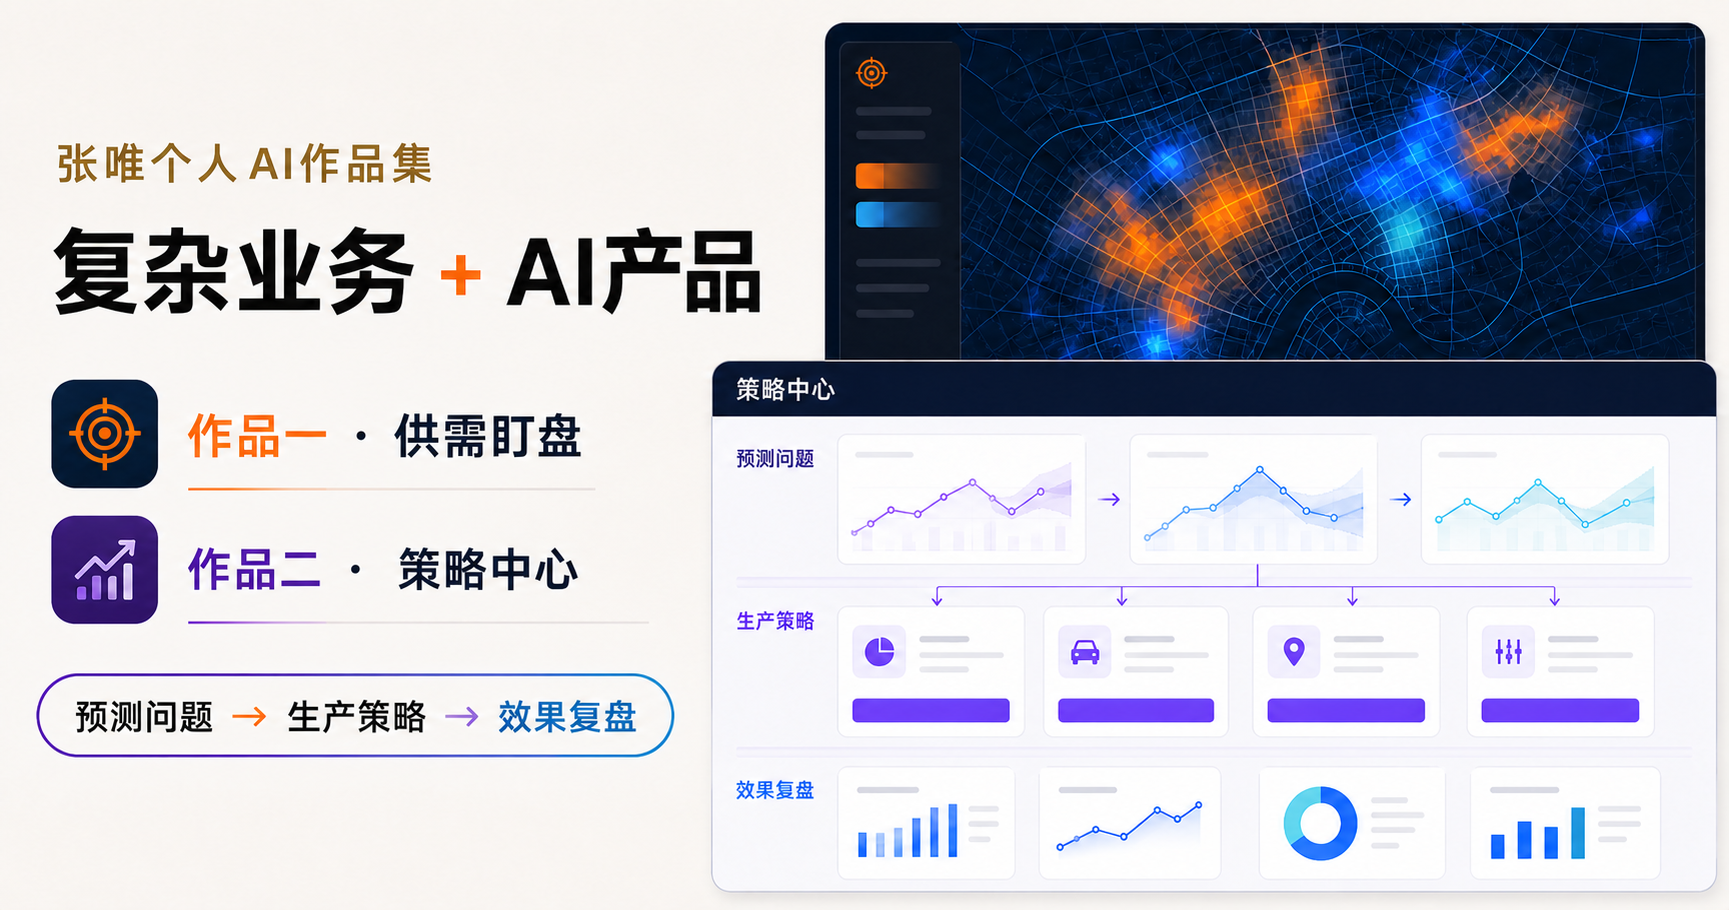
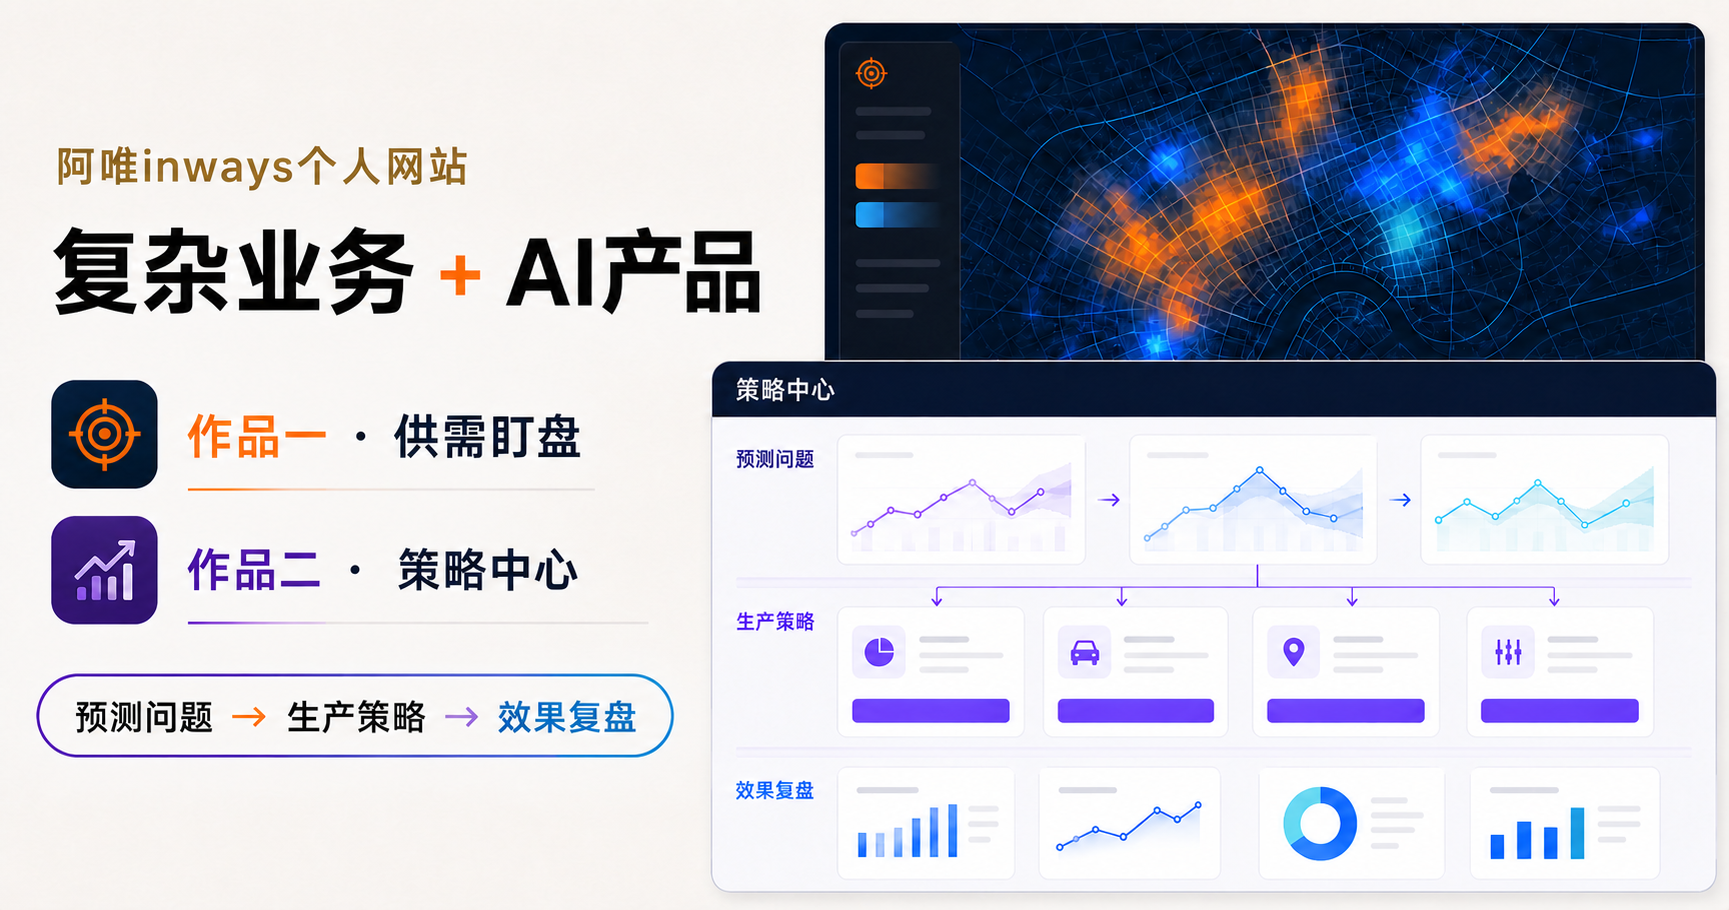
feat: rebrand portfolio as Awei inways personal site

diff --git a/ai-portfolio-cloudflare/app/page.tsx b/ai-portfolio-cloudflare/app/page.tsx
@@ -1,6 +1,7 @@
 "use client";
 
 import { useEffect, useMemo, useState } from "react";
+import Link from "next/link";
 
 const strategyText =
   "8月8日至10日，为海川市机场和大学城的周末兼职服务者配置晚高峰保障策略，18:00–22:00完成3单奖励15元、完成5单再奖励20元，单日预算5万元。";
@@ -46,9 +47,9 @@ type MonitorStep = "idle" | "rain" | "detected" | "dispatch" | "sent";
 
 function BrandMark() {
   return (
-    <div className="brand-mark" aria-label="张唯个人AI作品集">
+    <div className="brand-mark" aria-label="阿唯inways个人网站">
       <span className="brand-symbol"><i /><i /></span>
-      <span>张唯个人AI作品集</span>
+      <span>阿唯inways个人网站</span>
     </div>
   );
 }
@@ -68,12 +69,12 @@ function DemoDataNotice() {
 function SiteHeader({ active }: { active: "home" | "supply" | "strategy" | "about" }) {
   return (
     <header className="site-header">
-      <a href="/" aria-label="返回首页"><BrandMark /></a>
+      <Link href="/" aria-label="返回首页"><BrandMark /></Link>
       <nav>
-        <a className={active === "home" ? "active" : ""} href="/">首页</a>
+        <Link className={active === "home" ? "active" : ""} href="/">首页</Link>
         <a className={active === "supply" ? "active" : ""} href="/supply">作品一 · 供需盯盘</a>
         <a className={active === "strategy" ? "active" : ""} href="/strategy">作品二 · 策略中心</a>
-        <a className={active === "about" ? "active" : ""} href="/about">关于作品集</a>
+        <a className={active === "about" ? "active" : ""} href="/about">关于网站</a>
       </nav>
       <a className="header-cta" href={active === "strategy" ? "/supply" : "/strategy"}>体验产品Demo <ArrowIcon /></a>
     </header>
@@ -163,16 +164,22 @@ function SupplyDemo() {
   const selectedGap = scenarioData.gaps[selected as keyof typeof scenarioData.gaps];
 
   useEffect(() => {
-    setSelected(scenarioConfigs[scenario].firstTarget);
-    setDrawerOpen(false);
-    setStep("rain");
     const timer = window.setTimeout(() => setStep("detected"), 1100);
     return () => window.clearTimeout(timer);
   }, [scenario, scanVersion]);
 
   const reset = () => {
+    setSelected(scenarioConfigs[scenario].firstTarget);
     setDrawerOpen(false);
+    setStep("rain");
     setScanVersion((value) => value + 1);
+  };
+
+  const selectScenario = (nextScenario: Scenario) => {
+    setScenario(nextScenario);
+    setSelected(scenarioConfigs[nextScenario].firstTarget);
+    setDrawerOpen(false);
+    setStep("rain");
   };
 
   return (
@@ -194,9 +201,9 @@ function SupplyDemo() {
           <div className="metric"><small>风险区域</small><strong>{Object.keys(scenarioData.gaps).length}</strong><em>需干预</em></div>
           <div className="scenario-picker">
             <small>模拟场景</small>
-            <button className={scenario === "normal" ? "active" : ""} onClick={() => setScenario("normal")}>工作日早峰</button>
-            <button className={scenario === "rain" ? "active" : ""} onClick={() => setScenario("rain")}>突发强降雨</button>
-            <button className={scenario === "holiday" ? "active" : ""} onClick={() => setScenario("holiday")}>节假日客流</button>
+            <button className={scenario === "normal" ? "active" : ""} onClick={() => selectScenario("normal")}>工作日早峰</button>
+            <button className={scenario === "rain" ? "active" : ""} onClick={() => selectScenario("rain")}>突发强降雨</button>
+            <button className={scenario === "holiday" ? "active" : ""} onClick={() => selectScenario("holiday")}>节假日客流</button>
           </div>
           <div className="monitor-card">
             <span className="monitor-icon">◎</span>
@@ -434,7 +441,7 @@ function HomePreview() {
 }
 
 function Footer() {
-  return <footer><BrandMark /><p>AI产品运营 · AI产品经理 · AI解决方案</p><span>Portfolio demo · 2026</span></footer>;
+  return <footer><BrandMark /><p>AI产品实践 · 数字创作 · 持续探索</p><span>Personal site · 2026</span></footer>;
 }
 
 export function HomePage() {
@@ -444,9 +451,9 @@ export function HomePage() {
 
       <section className="hero">
         <div className="hero-copy">
-          <div className="eyebrow orange-text">AI PRODUCT PRACTICE · 2026</div>
-          <h1 className="hero-statement"><span className="hero-key business-key">复杂业务</span><i>+</i><span className="hero-key ai-key">AI产品</span><small>把六年运营经验，炼成可执行的产品能力。</small></h1>
-          <p>6年出行平台运营专家｜AI产品实践者<br />目标方向：AI产品运营 · AI产品经理 · AI解决方案</p>
+          <div className="eyebrow orange-text">INWAYS · PERSONAL SITE · 2026</div>
+          <h1 className="hero-statement"><span className="hero-key business-key">复杂业务</span><i>+</i><span className="hero-key ai-key">AI产品</span><small>把复杂问题，做成可以体验的产品。</small></h1>
+          <p>记录AI产品实践、业务思考与持续探索。<br />这里展示正在生长的作品与方法。</p>
           <div className="hero-actions"><a className="primary-cta" href="/supply">体验作品一 <ArrowIcon /></a><a className="secondary-cta" href="/strategy">体验作品二</a></div>
         </div>
         <div className="hero-product">
@@ -471,7 +478,7 @@ export function HomePage() {
         </div>
       </section>
 
-      <section className="about-teaser"><div><span className="eyebrow">ABOUT THIS PORTFOLIO</span><h2>真实问题，虚拟数据，<br />完整呈现产品思考。</h2></div><a href="/about">了解项目方法与脱敏说明 <ArrowIcon /></a></section>
+      <section className="about-teaser"><div><span className="eyebrow">ABOUT THIS SITE</span><h2>真实问题，虚拟数据，<br />记录每一次产品实践。</h2></div><a href="/about">了解网站与项目说明 <ArrowIcon /></a></section>
       <Footer />
     </main>
   );
@@ -486,7 +493,7 @@ export function StrategyPage() {
 }
 
 export function AboutPage() {
-  return <main><SiteHeader active="about" /><section className="about-page"><div className="about-page-heading"><span className="eyebrow orange-text">ABOUT THIS PORTFOLIO</span><h1>真实问题，虚拟数据，<br /><em>完整呈现产品思考。</em></h1><p>这是张唯用于求职展示的个人AI作品集，重点呈现复杂出行业务如何被重新拆解为可执行、可校验、可复用的AI产品。</p></div><div className="capability-grid">{capabilityCards.map(([no, title, desc]) => <article key={no}><span>{no}</span><h3>{title}</h3><p>{desc}</p></article>)}</div><div className="timeline-card"><div><span>Skill原型</span><small>验证单点价值</small></div><i>→</i><div><span>用户反馈</span><small>识别复用障碍</small></div><i>→</i><div><span>App产品化</span><small>配置与自动运行</small></div><i>→</i><div><span>全链路协同</span><small>生成、质检与决策</small></div></div><section className="privacy-note"><div><h2>关于职责与脱敏</h2><p>两个项目均由本人完成业务诊断、产品方案、规则抽象、Demo开发和迭代推广。作品集公开姓名，不展示手机号、邮箱、头像及当前公司信息。</p></div><div><h2>演示数据说明</h2><p>项目源于出行运营场景的真实实践抽象重构，不包含内部系统页面、接口和真实经营数据。“海川市”、人员、人群、策略、预算及地图均为虚构内容。</p></div></section></section><Footer /></main>;
+  return <main><SiteHeader active="about" /><section className="about-page"><div className="about-page-heading"><span className="eyebrow orange-text">ABOUT THIS SITE</span><h1>真实问题，虚拟数据，<br /><em>持续记录产品思考。</em></h1><p>这里是阿唯inways个人网站，记录复杂业务如何被重新拆解为可执行、可校验、可复用的AI产品，也保存一路上的实践与思考。</p></div><div className="capability-grid">{capabilityCards.map(([no, title, desc]) => <article key={no}><span>{no}</span><h3>{title}</h3><p>{desc}</p></article>)}</div><div className="timeline-card"><div><span>Skill原型</span><small>验证单点价值</small></div><i>→</i><div><span>用户反馈</span><small>识别复用障碍</small></div><i>→</i><div><span>App产品化</span><small>配置与自动运行</small></div><i>→</i><div><span>全链路协同</span><small>生成、质检与决策</small></div></div><section className="privacy-note"><div><h2>关于本站与脱敏</h2><p>本站只保留创作主题、项目方法与实践过程，不展示真实姓名、联系方式、头像及工作单位信息。两个项目的业务诊断、产品方案、规则抽象和Demo开发均为个人实践。</p></div><div><h2>演示数据说明</h2><p>项目源于出行运营场景的真实实践抽象重构，不包含内部系统页面、接口和真实经营数据。“海川市”、人员、人群、策略、预算及地图均为虚构内容。</p></div></section></section><Footer /></main>;
 }
 
 export default HomePage;

diff --git a/ai-portfolio-cloudflare/app/layout.tsx b/ai-portfolio-cloudflare/app/layout.tsx
@@ -3,20 +3,20 @@ import "./globals.css";
 
 export const metadata: Metadata = {
   metadataBase: new URL(process.env.NEXT_PUBLIC_SITE_URL ?? "https://awinways.com"),
-  title: "张唯个人AI作品集｜AI产品实践",
-  description: "张唯的AI产品作品集：供需盯盘与策略中心，展示复杂业务理解、AI产品落地与量化提效成果。",
+  title: "阿唯inways个人网站｜AI产品实践",
+  description: "阿唯inways个人网站：记录AI产品实践、业务思考与持续探索。",
   icons: { icon: "/favicon.svg", shortcut: "/favicon.svg" },
   openGraph: {
-    title: "张唯个人AI作品集｜AI产品实践",
-    description: "把复杂业务经验，变成真正能用的AI产品。",
+    title: "阿唯inways个人网站｜AI产品实践",
+    description: "把复杂问题，做成可以体验的AI产品。",
     type: "website",
     locale: "zh_CN",
-    images: [{ url: "/og.png", width: 1729, height: 910, alt: "张唯个人AI作品集：供需盯盘与策略中心" }],
+    images: [{ url: "/og.png", width: 1729, height: 910, alt: "阿唯inways个人网站：供需盯盘与策略中心" }],
   },
   twitter: {
     card: "summary_large_image",
-    title: "张唯个人AI作品集｜AI产品实践",
-    description: "把复杂业务经验，变成真正能用的AI产品。",
+    title: "阿唯inways个人网站｜AI产品实践",
+    description: "把复杂问题，做成可以体验的AI产品。",
     images: ["/og.png"],
   },
 };

diff --git a/ai-portfolio-cloudflare/README.md b/ai-portfolio-cloudflare/README.md
@@ -1,4 +1,4 @@
-# 张唯个人 AI 作品集
+# 阿唯inways个人网站
 
 本项目同时支持 Cloudflare Workers 和阿里云 ECS 静态部署。
 
